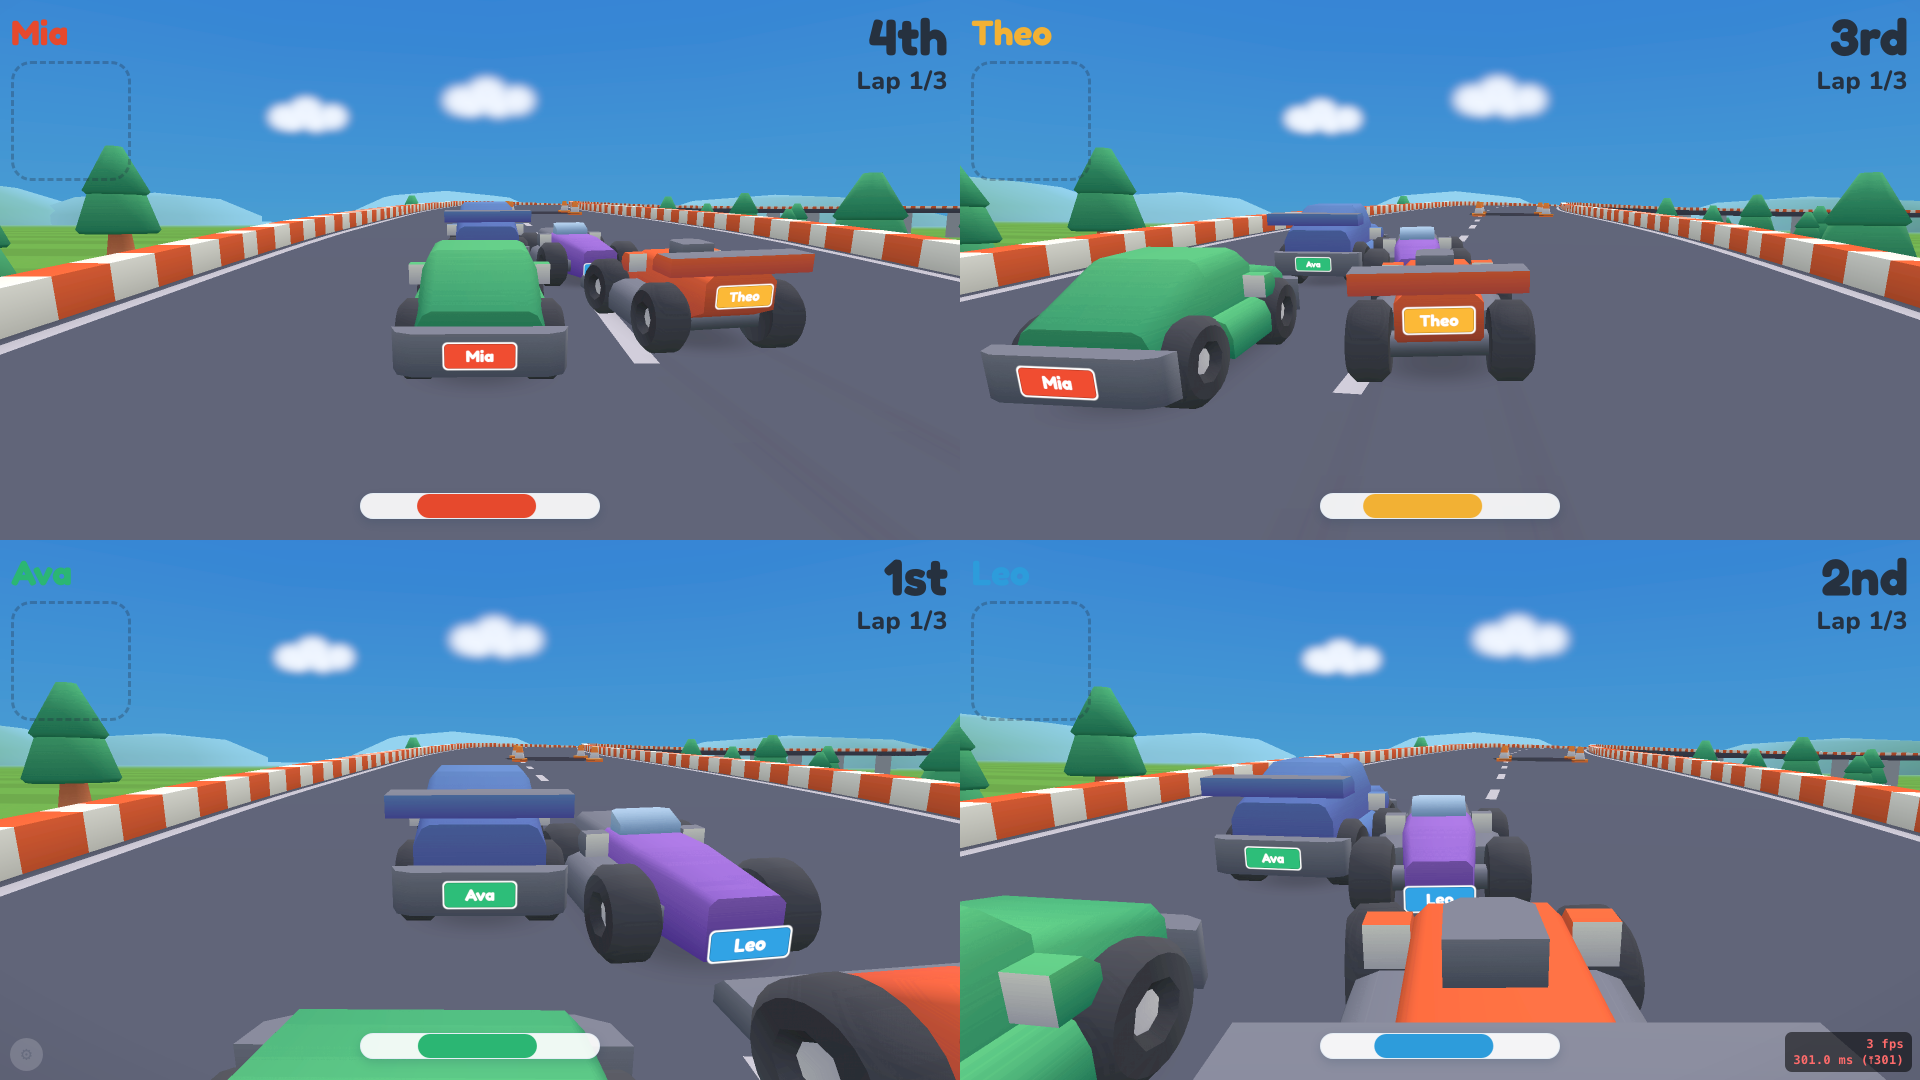
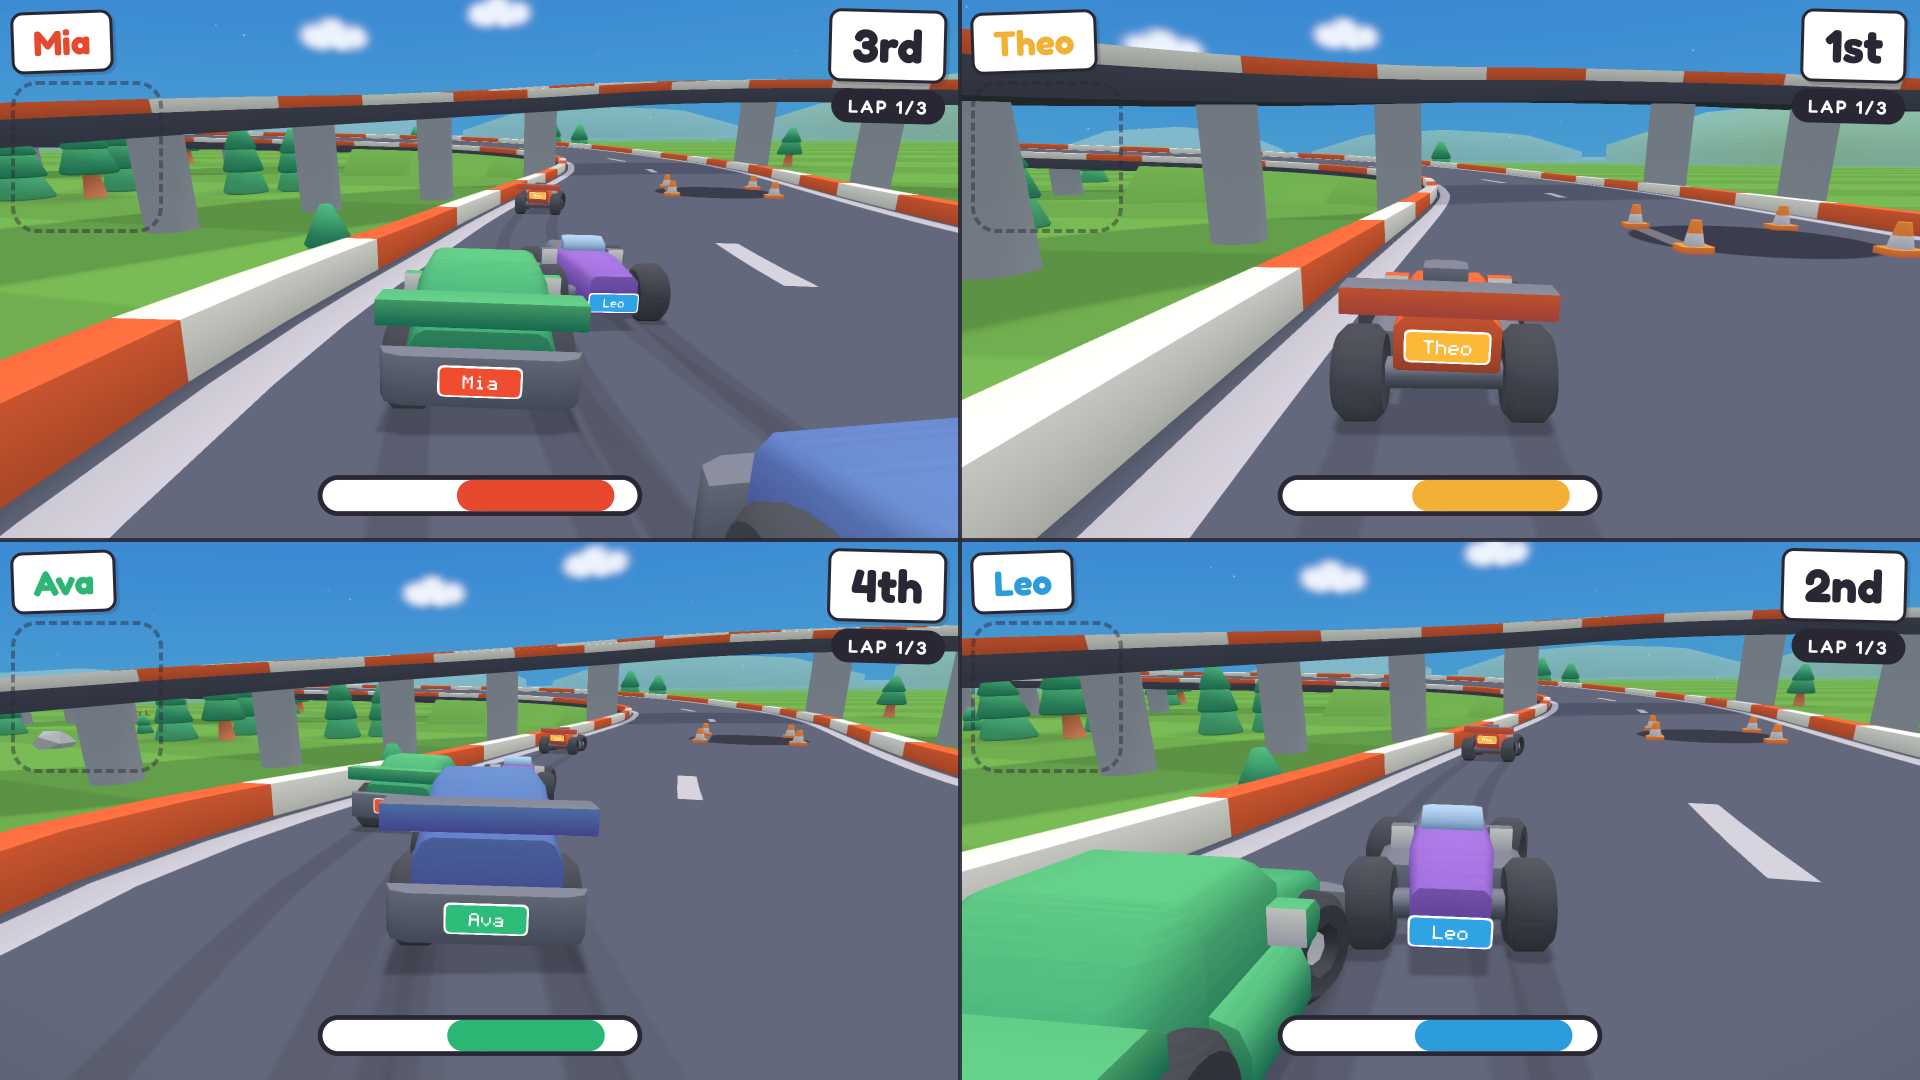
fix(artwork): shoot the README hero at full render scale
The capture ran as webdriver, so the display applied its automation
budget to it: Stage clamps the render scale to dpr 0.25 and skips the
sun's shadow bake when navigator.webdriver is set. Both are right for
the E2E suite, which asserts DOM and engine state and never looks at a
pixel, and wrong for a screenshot — the hero shot was a 480x270 buffer
upscaled 4x, which is why its 3D was soft under crisp DOM chrome.

Presenting as an ordinary tab is not enough on its own. Headless
rasterizes through SwiftShader, where the 3840x2160 buffer this shot
wants measures 0.58 fps, and _loop clamps dt to 50 ms per frame — so at
full scale throughout, twenty seconds of wall clock advances the race by
0.6 s and the field never leaves the grid. The capture now races at
dpr 0.25 and lifts the scale for the shot alone, waiting for the frame
to land (the resize clears the buffer) and asserting the drawing buffer
before it shoots. Stage grows setRenderScale for that: _dpr was read
once in the ctor with no way to move it live.

Also, since none of it belongs in a hero shot: hide the perf HUD, the
corner buttons (the fullscreen icon sits exactly on the top-right cell's
place chip, which is why "1st" read as tofu), the dev panel's gear FAB
and the two empty bottom-left pills. The default track was `oval`, which
has not existed since the catalogue went cup-based — main.js falls back
to the first track silently, so the flag was shooting a scene it did not
[…]

diff --git a/scripts/capture-artwork.js b/scripts/capture-artwork.js
@@ -10,17 +10,27 @@
 // that page in headless Chromium at a 16:9 viewport, lets the race develop for a
 // beat so the cars spread along the track, and screenshots the canvas to a PNG.
 //
-//   node scripts/capture-artwork.js                 # → artwork/splitscreen-4p.png (1920x1080, 2x SSAA)
-//   node scripts/capture-artwork.js --track grand   # use the Grand Tour layout
-//   node scripts/capture-artwork.js --width 2560 --height 1440 --wait 4000
-//   node scripts/capture-artwork.js --ss 1          # no supersampling (1:1 native render)
+//   node scripts/capture-artwork.js                  # → artwork/splitscreen-4p.png (1920x1080, 2x SSAA)
+//   node scripts/capture-artwork.js --track skysnake # a different layout (and so a different BIOME)
+//   node scripts/capture-artwork.js --width 2560 --height 1440 --wait 30000
+//   node scripts/capture-artwork.js --ss 1           # no supersampling (1:1 native render)
 //   node scripts/capture-artwork.js --out artwork/hero.png
 //
-// Edges are antialiased by supersampling: the page renders at SS× the target
-// (deviceScaleFactor=SS, so the WebGL buffer AND the HUD draw at SS× — the CSS
-// layout viewport stays WIDTHxHEIGHT, so composition is unchanged), then the shot
-// is downscaled back to WIDTHxHEIGHT in-browser. SS=2 means a 4K render → 1080p.
-// (The renderer caps its pixel ratio at 2, so SS>2 won't sharpen the 3D further.)
+// --track takes a CATALOGUE id (shared/tracks.js's CUPS), and picking one picks the
+// biome with it — the look is resolved from the track's own cup. An id that isn't in
+// the catalogue is NOT an error: main.js falls back to the first track, so a stale
+// name here would quietly shoot a different scene than the flag asks for.
+//
+// Edges are antialiased by supersampling: the page renders at SS× the target and
+// the shot is downscaled back to WIDTHxHEIGHT in-browser, so SS=2 means a 4K
+// render → 1080p. The CSS layout viewport stays WIDTHxHEIGHT throughout, so
+// composition never depends on SS. TWO SCALES GET THERE, and they are not the
+// same knob: deviceScaleFactor=SS rasterizes the DOM half (the HUD chips) and
+// fixes the screenshot's size, while the 3D half is the canvas backing store,
+// which Stage sizes from its OWN dpr — RACE_DPR while the race runs, then
+// SHOT_DPR for the frame that gets shot. The renderer caps its pixel ratio at 2,
+// which is why SHOT_DPR is min(SS, 2): SS above 2 still supersamples the chrome,
+// but cannot sharpen the 3D any further.
 //
 // Flags (all optional): --out, --width, --height, --players, --track, --scenario,
 // --ss (supersample factor, default 2), --wait (ms before the shot), --port, --headed.
@@ -50,11 +60,27 @@ const args = parseArgs(process.argv.slice(2));
 const WIDTH = parseInt(args.width, 10) || 1920;       // 16:9 by default
 const HEIGHT = parseInt(args.height, 10) || 1080;
 const PLAYERS = parseInt(args.players, 10) || 4;       // 4 → 2x2 grid
-const TRACK = args.track || 'oval';
+const TRACK = args.track || 'ribbon';                  // Backyard Cup — the canonical grass look
 const SCENARIO = args.scenario || 'racing';
-const WAIT_MS = parseInt(args.wait, 10) || 4000;       // let cars spread off the grid
+const WAIT_MS = parseInt(args.wait, 10) || 20000;      // let the race actually develop
+// 20 s, not 4: at 4 s the field is still stacked three-deep off the grid, so half the
+// cells shoot a camera buried in the car in front, and the places still read 1-2-3-4
+// down the grid — a starting line, not a race. By 20 s the bots have strung out, the
+// order has shuffled, and each cell frames its own piece of track. It is one LAP of
+// three either way. Nothing here is seeded, so framing still varies run to run: the
+// shot is worth a couple of rolls. Re-check this if the AI or the default track moves.
 const SS = Math.max(1, parseInt(args.ss, 10) || 2);    // supersample factor (2 → 4K render → 1080p)
 const PORT = parseInt(args.port, 10) || 4319;          // off the default 4000 dev port
+// The two render scales, and the whole reason there are two. Headless Chromium
+// rasterizes through SwiftShader, where the CPU is the fill rate: the 3840x2160
+// buffer this shot wants measures 0.58 fps. That is not just slow, it stops the
+// race — Stage's _loop clamps dt to 50 ms per frame, so at 0.58 fps twenty
+// seconds of wall clock advances the sim by 0.6 s and the field never leaves the
+// grid. At 0.25 the same twenty seconds is a real twenty seconds of racing.
+// Nothing is lost by racing small: the last thing before the screenshot is
+// setRenderScale(SHOT_DPR), and the shot is the frame drawn AFTER it.
+const RACE_DPR = 0.25;
+const SHOT_DPR = Math.min(SS, 2);                      // the renderer's own pixel-ratio cap
 const OUT = path.resolve(ROOT, args.out || 'artwork/splitscreen-4p.png');
 
 // Poll the server root until it answers (or time out).
@@ -98,25 +124,83 @@ async function main() {
     page.on('pageerror', (e) => console.error('[page error]', e.message));
     page.on('console', (m) => { if (m.type() === 'error') console.error('[console]', m.text()); });
 
+    // THE DISPLAY CLAMPS ITSELF UNDER AUTOMATION, and both clamps ruin a hero shot.
+    // Stage.js reads navigator.webdriver and (a) drops the render scale to dpr 0.25
+    // — a 1/16th-fragment budget for the E2E suite, which asserts DOM and engine
+    // state and never looks at a pixel — and (b) skips the sun's shadow bake. At
+    // 1920x1080 that is a 480x270 drawing buffer stretched back up: crisp DOM chrome
+    // over mush, which is what the README carried until 2026-07-30. This capture is
+    // NOT the suite and wants the shipping render path, so it presents as an ordinary
+    // tab. (?dpr= would lift the resolution alone; the shadow skip has no URL knob,
+    // and there is no reason for a screenshot to run either of the suite's budgets.)
+    await page.addInitScript(() => {
+      Object.defineProperty(navigator, 'webdriver', { get: () => false });
+    });
+
+    // RACE CHEAP, SHOOT SHARP — see the RACE_DPR / SHOT_DPR note above for why the
+    // whole run cannot simply be at full scale.
     const url = `http://127.0.0.1:${PORT}/?test=1&scenario=${SCENARIO}` +
-      `&players=${PLAYERS}&track=${TRACK}`;
+      `&players=${PLAYERS}&track=${TRACK}&dpr=${RACE_DPR}`;
     await page.goto(url, { waitUntil: 'networkidle' });
 
     // The harness builds the engine + scene cars once the GLBs load; wait for the
-    // full field to exist (and the WebGL context to be live) before shooting.
+    // full field to exist before shooting. (There is no GL context to interrogate
+    // from here any more — the renderer is native and owns its own; a lost context
+    // shows up as the scene never reaching PLAYERS cars, which this already times
+    // out on.)
     await page.waitForFunction((n) => {
       const s = window.__scene, e = window.__engine;
-      if (!s || !e || s.cars.size < n) return false;
-      const gl = s.renderer && s.renderer.getContext && s.renderer.getContext();
-      return !gl || !gl.isContextLost();
+      return !!(s && e && s.cars.size >= n);
     }, PLAYERS, { timeout: 20000 });
 
     // Plates render with the self-hosted Fredoka face — wait so text isn't a fallback.
     await page.evaluate(() => document.fonts && document.fonts.ready);
 
+    // The perf HUD is ON by default in development (render/PerfHud.js), and this is
+    // a hero shot: hide it so the frame-cost readout doesn't end up in the README.
+    await page.evaluate(() => window.__perf && window.__perf.hide());
+
+    // Page chrome that is not the GAME: the fullscreen/pause corner buttons (which
+    // sit ON TOP of the top-right cell's place chip — in a 2x2 grid the expand icon
+    // lands square on "1st"), the dev panel's gear FAB, and the two bottom-left
+    // pills, which in the harness have no content and shoot as a stray dark dot.
+    // Hidden rather than avoided, because where they land depends on the grid the
+    // player count picks.
+    await page.evaluate(() => {
+      for (const sel of ['#corner-btns', '.dbg-fab', '#music-credit', '#sound-hint', '#toast']) {
+        for (const node of document.querySelectorAll(sel)) node.style.display = 'none';
+      }
+    });
+
     // Let the self-driving race run a beat so cars fan out along the track rather
-    // than sitting stacked on the start grid.
+    // than sitting stacked on the start grid. This part runs at RACE_DPR.
     await page.waitForTimeout(WAIT_MS);
+
+    // Now lift the render scale for the shot itself, and let the renderer actually
+    // DRAW at it: the resize reallocates (and clears) the drawing buffer, and a
+    // 3840x2160 frame takes over a second here, so screenshotting straight after
+    // the call captures an empty canvas. Three frames, with a ceiling so a stalled
+    // loop fails as a blank shot rather than a hung script.
+    await page.evaluate((dpr) => window.__scene.setRenderScale(dpr), SHOT_DPR);
+    await page.evaluate(() => new Promise((done) => {
+      let n = 0;
+      const tick = () => (++n >= 3 ? done() : requestAnimationFrame(tick));
+      requestAnimationFrame(tick);
+      setTimeout(done, 30000);
+    }));
+
+    // A clamped render surface is SILENT — it still shoots a perfectly valid PNG,
+    // just a soft one — so assert the drawing buffer rather than trusting it.
+    const wantWide = WIDTH * SHOT_DPR;
+    const surface = await page.evaluate(() => {
+      const c = document.getElementById('scene-canvas');
+      return c && { w: c.width, h: c.height };
+    });
+    if (!surface) throw new Error('no #scene-canvas — the display never booted its renderer');
+    if (surface.w < wantWide) {
+      throw new Error(`render surface is ${surface.w}x${surface.h}, wanted ${wantWide} wide — ` +
+        'the display clamped its resolution (Stage.js drops to dpr 0.25 under automation)');
+    }
 
     if (SS === 1) {
       await page.screenshot({ path: OUT }); // native render, no downscale

diff --git a/public/display/Stage.js b/public/display/Stage.js
@@ -781,6 +781,29 @@ export class Stage {
   // 60fps; the held frame renders fully, so resuming picks up seamlessly.
   pauseAfterFrame() { if (this._running) this._idleAfterFrame = true; }
 
+  // DEBUG resolution scale: re-point the drawing buffer at n x the layout size,
+  // live. ?dpr= picks the value at boot and is the normal way to set it; this is
+  // for the one caller that needs to CHANGE it mid-session — scripts/capture-artwork.js,
+  // which races at a cheap scale (the artwork rig raster is software GL: full-res
+  // 4K measures 0.58 fps, and since _loop clamps dt to 50 ms per frame a slow
+  // frame rate stops the sim advancing, so a hero shot at full scale throughout
+  // is 20 s of wall clock for 0.6 s of race) and then lifts it for the shot alone.
+  //
+  // Clamped to the renderer's pixel-ratio cap of 2, but NOT to devicePixelRatio
+  // the way the ctor is: a caller naming a scale is asking for a buffer size, and
+  // on a DPR-1 screen 2 means supersample, which is exactly what the capture wants.
+  //
+  // _onResize is the whole of it. The renderer's two chrome pieces used to need
+  // the new scale pushed after it (uiScale), and no longer do — they size
+  // themselves off the cell rects, which are C++'s own answer and move with the
+  // surface. So nothing here has to stay in step with a second copy of the size.
+  setRenderScale(n) {
+    const v = parseFloat(n);
+    this._dpr = Number.isFinite(v) && v > 0 ? Math.min(v, 2) : 1;
+    this._onResize();
+    return this._dpr;
+  }
+
   _loop(t) {
     if (!this._running) return;
     const rawMs = t - this._last; // true rAF cadence (pre-clamp) for the FPS meter
